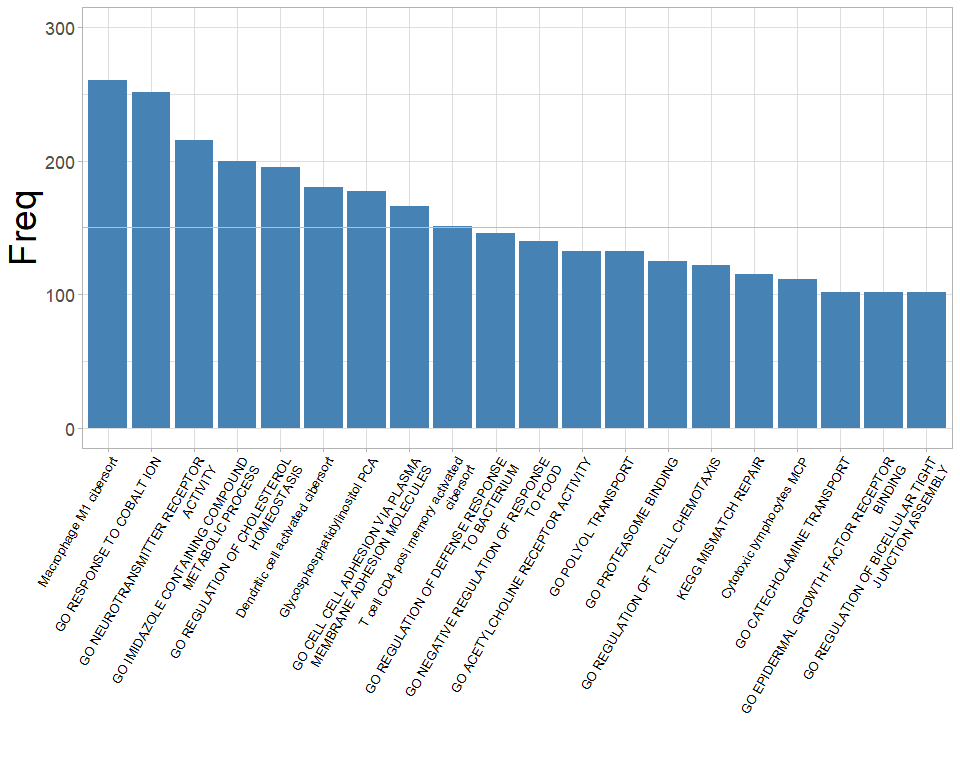
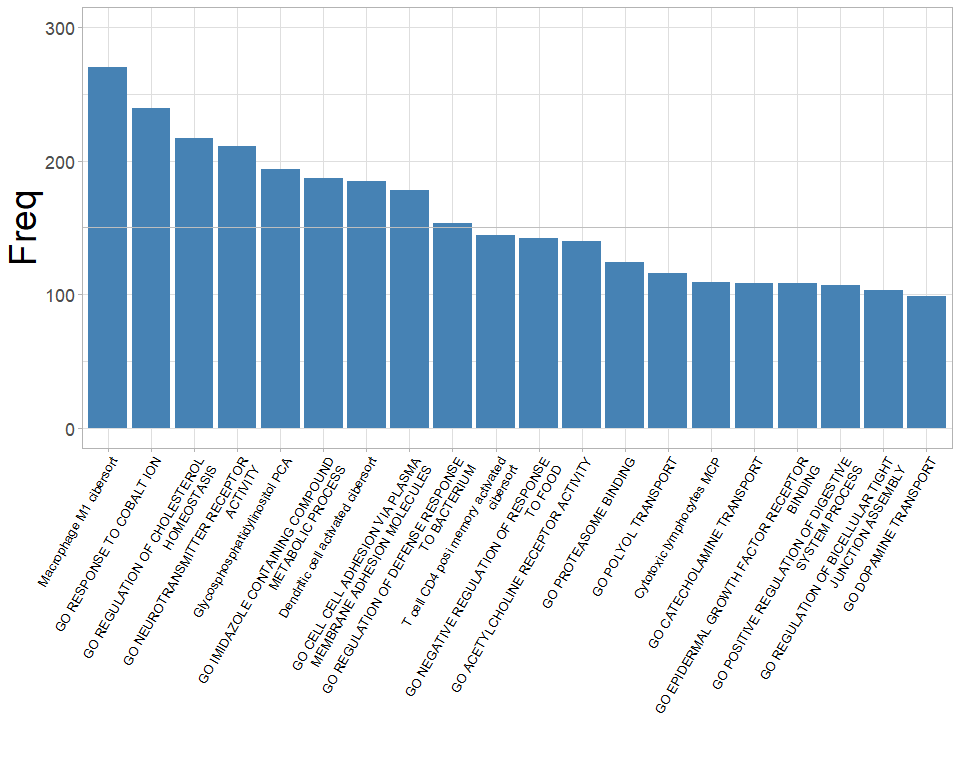
update README

diff --git a/README.md b/README.md
@@ -3,18 +3,40 @@
 
 # Blasso： Integrating LASSO regression and bootstrapping algorithm to find best prognostic or predictive feature
 
+![Blasso logo](./man/Graphical%20abstract.png)
+
 The package is not yet on CRAN. You can install from Github:
 
 ``` r
-if (!requireNamespace("devtools", quietly = TRUE)) install.packages("devtools")
-if (!requireNamespace("Blasso", quietly = TRUE))  devtools::install_github("DongqiangZeng0808/Blasso")
+if (!requireNamespace("devtools", quietly = TRUE)) 
+  install.packages("devtools")
+if (!requireNamespace("Blasso", quietly = TRUE)) 
+  devtools::install_github("DongqiangZeng0808/Blasso")
 ```
 
 Loading packages and main function in the package:
 
 ``` r
 library(Blasso) 
+#> 载入需要的程辑包：glmnet
+#> 载入需要的程辑包：Matrix
+#> Loaded glmnet 4.1-2
+#> 载入需要的程辑包：ggplot2
+#> 载入需要的程辑包：tibble
+#> 载入需要的程辑包：survival
+#> 载入需要的程辑包：RColorBrewer
+#> 载入需要的程辑包：progress
+#> 载入需要的程辑包：stringr
+#> ==========================================================================
+#> Blasso v0.1.0  For help: https://github.com/DongqiangZeng0808/Blasso
+#> 
+#>  If you use Blasso in published research, please cite:
+#>  Macrophage correlates with immunophenotype and predicts anti-PD-L1
+#>  response of urothelial cancer. Theranostics 2020; 10(15):7002-7014.
+#> ==========================================================================
 help("best_predictor_cox")
+#> starting httpd help server ...
+#>  done
 help("best_predictor_binomial")
 ```
 
@@ -30,7 +52,6 @@ head(target)
 #> 4 SAM032c642382a7      1  2.4969199
 #> 5 SAM04c589eb3fb3      0  0.6899384
 #> 6 SAM0571f17f4045      1  4.5338809
-
 data("features")
 features[1:5,1:5]
 #>                ID Glycosphosphatidylinositol_PCA Macrophage_M1_cibersort
@@ -50,12 +71,12 @@ features[1:5,1:5]
 ## Usage-1: Cox-regression model
 
 ``` r
-res<-best_predictor_cox(target_data = target, 
-                        features = features, 
-                        status = "status",
-                        time = "time",
-                        nfolds = 10,
-                        permutation = 300,
+res<-best_predictor_cox(target_data   = target, 
+                        features      = features, 
+                        status        = "status",
+                        time          = "time",
+                        nfolds        = 10,
+                        permutation   = 300,
                         show_progress = FALSE)
 ```
 
@@ -63,27 +84,27 @@ res<-best_predictor_cox(target_data = target,
 
 ``` r
 head(res$res, n = 10)
-#>                                                             res Freq
-#> 1                                       Macrophage M1 cibersort  260
-#> 2                                     GO RESPONSE TO COBALT ION  251
-#> 3                         GO NEUROTRANSMITTER RECEPTOR ACTIVITY  215
-#> 4            GO IMIDAZOLE CONTAINING COMPOUND METABOLIC PROCESS  200
-#> 5                      GO REGULATION OF CHOLESTEROL HOMEOSTASIS  195
-#> 6                            Dendritic cell activated cibersort  180
-#> 7                                Glycosphosphatidylinositol PCA  177
-#> 8  GO CELL CELL ADHESION VIA PLASMA MEMBRANE ADHESION MOLECULES  166
-#> 9                    T cell CD4 posi memory activated cibersort  151
-#> 10               GO REGULATION OF DEFENSE RESPONSE TO BACTERIUM  146
+#>                                                            res1 Freq
+#> 1                                       Macrophage M1 cibersort  270
+#> 2                                     GO RESPONSE TO COBALT ION  239
+#> 3                      GO REGULATION OF CHOLESTEROL HOMEOSTASIS  217
+#> 4                         GO NEUROTRANSMITTER RECEPTOR ACTIVITY  211
+#> 5                                Glycosphosphatidylinositol PCA  194
+#> 6            GO IMIDAZOLE CONTAINING COMPOUND METABOLIC PROCESS  187
+#> 7                            Dendritic cell activated cibersort  185
+#> 8  GO CELL CELL ADHESION VIA PLASMA MEMBRANE ADHESION MOLECULES  178
+#> 9                GO REGULATION OF DEFENSE RESPONSE TO BACTERIUM  153
+#> 10                   T cell CD4 posi memory activated cibersort  144
 ```
 
 ## Usage-2: Binomial model
 
 ``` r
-res<-best_predictor_binomial(target_data = target, 
-                             features = features,
-                             response = "status",
-                             nfolds = 10,
-                             permutation = 300,
+res<-best_predictor_binomial(target_data   = target, 
+                             features      = features,
+                             response      = "status",
+                             nfolds        = 10,
+                             permutation   = 300,
                              show_progress = FALSE)
 ```
 
@@ -91,24 +112,24 @@ res<-best_predictor_binomial(target_data = target,
 
 ``` r
 head(res$res, n = 10)
-#>                                                               res Freq
-#> 2                                         Macrophage M1 cibersort  280
-#> 3                                       GO RESPONSE TO COBALT ION  274
-#> 4                           GO NEUROTRANSMITTER RECEPTOR ACTIVITY  247
-#> 5                     GO SOMATIC STEM CELL POPULATION MAINTENANCE  244
-#> 6                                                       GO M BAND  239
-#> 7                              Dendritic cell activated cibersort  234
-#> 8                        GO REGULATION OF CHOLESTEROL HOMEOSTASIS  233
-#> 9                                      GO CENTROSOME LOCALIZATION  208
-#> 10 GO RECEPTOR SIGNALING PROTEIN SERINE THREONINE KINASE ACTIVITY  207
-#> 11                GO VERY LONG CHAIN FATTY ACID METABOLIC PROCESS  202
+#>                                                              res1 Freq
+#> 1                                         Macrophage M1 cibersort  285
+#> 2                                       GO RESPONSE TO COBALT ION  273
+#> 3                        GO REGULATION OF CHOLESTEROL HOMEOSTASIS  245
+#> 4                     GO SOMATIC STEM CELL POPULATION MAINTENANCE  240
+#> 5                           GO NEUROTRANSMITTER RECEPTOR ACTIVITY  231
+#> 6                                                       GO M BAND  225
+#> 7                              Dendritic cell activated cibersort  215
+#> 8  GO RECEPTOR SIGNALING PROTEIN SERINE THREONINE KINASE ACTIVITY  212
+#> 9                                      GO CENTROSOME LOCALIZATION  211
+#> 10                                 Glycosphosphatidylinositol PCA  200
 ```
 
 ## Session Info
 
 ``` r
 sessionInfo()
-#> R version 4.0.4 (2021-02-15)
+#> R version 4.1.1 (2021-08-10)
 #> Platform: x86_64-w64-mingw32/x64 (64-bit)
 #> Running under: Windows 10 x64 (build 19041)
 #> 
@@ -126,26 +147,26 @@ sessionInfo()
 #> 
 #> other attached packages:
 #> [1] Blasso_0.1.0       stringr_1.4.0      progress_1.2.2     RColorBrewer_1.1-2
-#> [5] survival_3.2-10    tibble_3.1.0       ggplot2_3.3.3      glmnet_4.1-1      
-#> [9] Matrix_1.3-2      
+#> [5] survival_3.2-11    tibble_3.1.4       ggplot2_3.3.5      glmnet_4.1-2      
+#> [9] Matrix_1.3-4      
 #> 
 #> loaded via a namespace (and not attached):
-#>  [1] lattice_0.20-41   prettyunits_1.1.1 ps_1.6.0          assertthat_0.2.1 
-#>  [5] rprojroot_2.0.2   digest_0.6.27     foreach_1.5.1     utf8_1.2.1       
-#>  [9] R6_2.5.0          evaluate_0.14     highr_0.8         pillar_1.5.1     
-#> [13] rlang_0.4.10      callr_3.5.1       rmarkdown_2.7     desc_1.3.0       
-#> [17] labeling_0.4.2    devtools_2.3.2    splines_4.0.4     munsell_0.5.0    
-#> [21] compiler_4.0.4    xfun_0.22         pkgconfig_2.0.3   pkgbuild_1.2.0   
-#> [25] shape_1.4.5       htmltools_0.5.1.1 tidyselect_1.1.0  codetools_0.2-18 
-#> [29] fansi_0.4.2       crayon_1.4.1      dplyr_1.0.5       withr_2.4.1      
-#> [33] grid_4.0.4        gtable_0.3.0      lifecycle_1.0.0   DBI_1.1.1        
-#> [37] magrittr_2.0.1    scales_1.1.1      cli_2.4.0         stringi_1.5.3    
-#> [41] cachem_1.0.4      farver_2.1.0      fs_1.5.0          remotes_2.3.0    
-#> [45] testthat_3.0.2    ellipsis_0.3.1    vctrs_0.3.7       generics_0.1.0   
-#> [49] iterators_1.0.13  tools_4.0.4       glue_1.4.2        purrr_0.3.4      
-#> [53] hms_1.0.0         processx_3.4.5    pkgload_1.2.0     fastmap_1.1.0    
-#> [57] yaml_2.2.1        colorspace_2.0-0  sessioninfo_1.1.1 memoise_2.0.0    
-#> [61] knitr_1.31        usethis_2.0.1
+#>  [1] lattice_0.20-44   prettyunits_1.1.1 ps_1.6.0          assertthat_0.2.1 
+#>  [5] rprojroot_2.0.2   digest_0.6.27     foreach_1.5.1     utf8_1.2.2       
+#>  [9] R6_2.5.1          evaluate_0.14     highr_0.9         pillar_1.6.2     
+#> [13] rlang_0.4.11      rstudioapi_0.13   callr_3.7.0       rmarkdown_2.11   
+#> [17] labeling_0.4.2    desc_1.3.0        devtools_2.4.2    splines_4.1.1    
+#> [21] munsell_0.5.0     compiler_4.1.1    xfun_0.25         pkgconfig_2.0.3  
+#> [25] pkgbuild_1.2.0    shape_1.4.6       htmltools_0.5.2   tidyselect_1.1.1 
+#> [29] codetools_0.2-18  fansi_0.5.0       crayon_1.4.1      dplyr_1.0.7      
+#> [33] withr_2.4.2       grid_4.1.1        gtable_0.3.0      lifecycle_1.0.0  
+#> [37] DBI_1.1.1         magrittr_2.0.1    scales_1.1.1      cli_3.0.1        
+#> [41] stringi_1.7.4     cachem_1.0.6      farver_2.1.0      fs_1.5.0         
+#> [45] remotes_2.4.0     testthat_3.0.4    ellipsis_0.3.2    vctrs_0.3.8      
+#> [49] generics_0.1.0    iterators_1.0.13  tools_4.1.1       glue_1.4.2       
+#> [53] purrr_0.3.4       hms_1.1.0         processx_3.5.2    pkgload_1.2.2    
+#> [57] fastmap_1.1.0     yaml_2.2.1        colorspace_2.0-2  sessioninfo_1.1.1
+#> [61] memoise_2.0.0     knitr_1.34        usethis_2.0.1
 ```
 
 ## References
@@ -153,7 +174,7 @@ sessionInfo()
 Zeng D, Ye Z, Wu J, Zhou R, Fan X, Wang G, Huang Y, Wu J, Sun H, Wang M,
 Bin J, Liao Y, Li N, Shi M, Liao W. Macrophage correlates with
 immunophenotype and predicts anti-PD-L1 response of urothelial cancer.
-Theranostics 2020; 10(15):7002-7014.
+*Theranostics* 2020; 10(15):7002-7014.
 [doi:10.7150/thno.46176](http://www.thno.org/v10p7002.html)
 
 ------------------------------------------------------------------------
